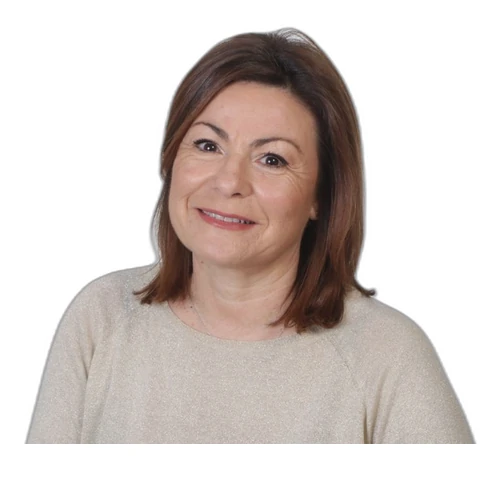
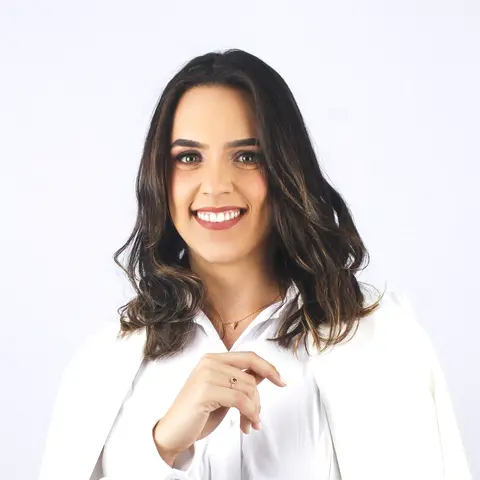
Fix mobile bubbles and consolidate offer flow

diff --git a/styles.css b/styles.css
@@ -599,24 +599,18 @@ h3 {
   text-align: center;
 }
 
-.hero-bubble::before,
 .hero-bubble::after {
   content: "";
   position: absolute;
-  left: -55px;
-  bottom: 27px;
-  width: 66px;
-  height: 40px;
+  z-index: 1;
+  left: -17px;
+  bottom: 34px;
+  width: 30px;
+  height: 30px;
   background: var(--white);
-  clip-path: polygon(100% 0, 100% 100%, 0 100%);
-}
-
-.hero-bubble::before {
-  left: -63px;
-  bottom: 22px;
-  width: 72px;
-  height: 50px;
-  background: var(--ink);
+  border-bottom: 4px solid var(--ink);
+  border-left: 4px solid var(--ink);
+  transform: rotate(45deg);
 }
 
 .claim-banner {
@@ -628,18 +622,25 @@ h3 {
   font-size: clamp(1.05rem, 2vw, 1.4rem);
   font-weight: 800;
   text-align: center;
+}
+
+.claim-underlined {
   text-decoration: underline;
   text-decoration-thickness: 2px;
   text-underline-offset: 4px;
 }
 
+.claim-ending {
+  white-space: nowrap;
+}
+
 .claim-tm {
   position: relative;
+  display: inline-block;
   top: -0.52em;
   margin-left: 0.22em;
   font-size: 0.38em;
   letter-spacing: 0.03em;
-  text-decoration: none;
 }
 
 .contact-marquee {
@@ -1017,8 +1018,10 @@ h3 {
 }
 
 .offer-section {
+  overflow: hidden;
   background:
     radial-gradient(circle at 15% 14%, rgba(255, 184, 0, 0.16), transparent 24%),
+    radial-gradient(circle at 82% 72%, rgba(109, 54, 142, 0.1), transparent 30%),
     linear-gradient(180deg, var(--paper-light), var(--paper));
 }
 
@@ -1027,7 +1030,7 @@ h3 {
   grid-template-columns: minmax(0, 1fr) auto minmax(0, 1fr);
   align-items: stretch;
   max-width: 960px;
-  margin: 0 auto 28px;
+  margin: 0 auto;
   border: 3px solid var(--ink);
   background: var(--paper-light);
   box-shadow: 8px 8px 0 rgba(104, 58, 0, 0.2);
@@ -1075,62 +1078,18 @@ h3 {
   font-weight: 800;
 }
 
-.offer-copy {
-  max-width: 960px;
-  margin: 0 auto;
-  padding: clamp(25px, 3.5vw, 42px);
+.process-heading {
+  margin-top: clamp(48px, 7vw, 76px);
+  margin-bottom: 30px;
 }
 
-.offer-copy > p {
-  max-width: 860px;
-  margin-inline: auto;
-  font-size: clamp(1.08rem, 2vw, 1.3rem);
-  text-align: center;
-}
-
-.offer-facts {
-  max-width: 810px;
-  margin: 28px auto 0;
-  padding: 0;
-  display: grid;
-  gap: 16px;
-  list-style: none;
-}
-
-.offer-facts li {
-  position: relative;
-  display: grid;
-  grid-template-columns: 30px minmax(0, 1fr);
-  gap: 13px;
-  padding-top: 16px;
-  border-top: 2px solid rgba(21, 17, 12, 0.22);
-}
-
-.offer-facts li::before {
-  content: "★";
-  color: var(--gold-dark);
-  font-size: 1.25rem;
-  line-height: 1.2;
-  text-align: center;
-}
-
-.offer-facts h3 {
-  margin-bottom: 10px;
-  font-size: 1rem;
-  font-weight: 800;
-  line-height: 1.2;
-  text-transform: uppercase;
-}
-
-.offer-facts p:last-child {
+.process-heading h3 {
   margin-bottom: 0;
-}
-
-.process-section {
-  overflow: hidden;
-  background:
-    radial-gradient(circle at 80% 20%, rgba(109, 54, 142, 0.11), transparent 30%),
-    var(--paper);
+  font-size: clamp(2rem, 4.8vw, 4rem);
+  font-weight: 800;
+  line-height: 1.01;
+  letter-spacing: -0.035em;
+  text-transform: uppercase;
 }
 
 .process-film {
@@ -1455,24 +1414,18 @@ h3 {
   line-height: 1.42;
 }
 
-.quote-bubble::before,
 .quote-bubble::after {
   content: "";
   position: absolute;
-  bottom: -26px;
+  z-index: 1;
+  bottom: -15px;
   left: 50%;
-  width: 28px;
-  height: 30px;
-  background: var(--ink);
-  clip-path: polygon(0 0, 100% 0, 72% 100%);
-  transform: translateX(-50%);
-}
-
-.quote-bubble::after {
-  bottom: -19px;
-  width: 21px;
-  height: 23px;
+  width: 27px;
+  height: 27px;
   background: var(--white);
+  border-right: 3px solid var(--ink);
+  border-bottom: 3px solid var(--ink);
+  transform: translateX(-50%) rotate(45deg);
 }
 
 .portrait-frame {
@@ -1760,11 +1713,15 @@ h3 {
 
   .masthead {
     font-size: clamp(3.35rem, 14.2vw, 6.4rem);
-    line-height: 0.82;
+    line-height: 0.9;
   }
 
   .masthead-face > span {
     display: block;
+  }
+
+  .masthead-face > span + span {
+    margin-top: 0.14em;
   }
 
   .hero {
@@ -1802,20 +1759,16 @@ h3 {
     margin-inline: 8px;
   }
 
-  .hero-bubble::before,
   .hero-bubble::after {
     left: 50%;
-    bottom: -42px;
-    width: 48px;
-    height: 48px;
-    clip-path: polygon(0 0, 100% 0, 50% 100%);
-    transform: translateX(-50%);
-  }
-
-  .hero-bubble::before {
-    bottom: -49px;
-    width: 57px;
-    height: 54px;
+    top: -18px;
+    bottom: auto;
+    width: 34px;
+    height: 34px;
+    border: 0;
+    border-top: 4px solid var(--ink);
+    border-left: 4px solid var(--ink);
+    transform: translateX(-50%) rotate(45deg);
   }
 
   .claim-banner {
@@ -1881,7 +1834,7 @@ h3 {
   }
 
   .masthead-stage {
-    min-height: 205px;
+    min-height: 225px;
     padding: 24px 0 10px;
   }
 
@@ -1948,6 +1901,7 @@ h3 {
   }
 
   .section-heading h2,
+  .process-heading h3,
   .outlined-panel h2,
   .finale h2 {
     font-size: clamp(1.85rem, 9vw, 3rem);
@@ -1975,10 +1929,6 @@ h3 {
     width: 43px;
     height: 43px;
     margin: -3px auto;
-  }
-
-  .offer-copy {
-    padding: 26px 18px;
   }
 
   .process-film {

diff --git a/index.html b/index.html
@@ -81,7 +81,7 @@
             </blockquote>
 
             <div class="claim-banner">
-              The Movie Master has all the best movie opinions.<sup class="claim-tm">TM</sup>
+              <span class="claim-underlined">The Movie Master has all the best movie </span><span class="claim-ending"><span class="claim-underlined">opinions.</span><sup class="claim-tm">TM</sup></span>
             </div>
 
             <section class="contact-marquee" id="contact" aria-labelledby="contact-title">
@@ -176,47 +176,9 @@
             </div>
           </div>
 
-          <div class="offer-copy outlined-panel reveal-on-scroll">
-            <p>
-              You can either let the Movie Master choose for you or you can tell
-              the Movie Master what kinds of movies you like and let him
-              recommend the best movies customized for your taste.
-            </p>
-            <ul class="offer-facts">
-              <li>
-                <div>
-                  <h3>What information should a customer give him?</h3>
-                  <p>
-                    Tell the Movie Master how many movie recommendations you're
-                    interested in buying, what kinds of movies you want him to
-                    give you (optional), and how you heard about him (also
-                    optional).
-                  </p>
-                </div>
-              </li>
-              <li>
-                <div>
-                  <h3>Expected turnaround</h3>
-                  <p>
-                    You will receive your list of Blockbuster Smash Hits in no
-                    more than 24 hours.
-                  </p>
-                </div>
-              </li>
-            </ul>
-          </div>
-        </div>
-      </section>
-
-      <div class="filmstrip-divider filmstrip-divider-flipped" aria-hidden="true">
-        <div class="filmstrip-stars">★★★★★</div>
-      </div>
-
-      <section class="section process-section" id="process">
-        <div class="page-shell">
-          <div class="section-heading reveal-on-scroll">
+          <div class="section-heading process-heading reveal-on-scroll" id="process">
             <p class="eyebrow" aria-hidden="true">★★★★★</p>
-            <h2>HOW IT WORKS</h2>
+            <h3>HOW IT WORKS</h3>
           </div>
           <ol class="process-film reveal-on-scroll">
             <li>

diff --git a/CREDITS.md b/CREDITS.md
@@ -13,7 +13,7 @@ illustrative portraits under the [Pexels license](https://www.pexels.com/license
 - Gabriel W.: [Professional man in a blue suit smiling](https://www.pexels.com/photo/professional-man-in-blue-suit-smiling-portrait-38677836/)
 - Josephina B.: [Professional portrait of a smiling woman in a studio](https://www.pexels.com/photo/professional-portrait-of-smiling-woman-in-studio-38197025/)
 - Torrin W.: [Professional headshot of a smiling businessman](https://www.pexels.com/photo/professional-headshot-of-smiling-businessman-30004315/)
-- Sabrina C.: [Professional portrait of a smiling middle-aged woman](https://www.pexels.com/photo/professional-portrait-of-smiling-middle-aged-woman-29405854/)
+- Sabrina C.: [Smiling woman standing in a studio](https://www.pexels.com/photo/smiling-woman-standing-in-studio-15306494/)
 - Wert P.: [Smiling young man in a suit](https://www.pexels.com/photo/smiling-young-man-in-suit-posing-on-white-studio-background-17311570/)
 - Polly P.: [Smiling businesswoman in a black suit](https://www.pexels.com/photo/smiling-elegant-woman-17050132/)
 - George W.: [Professional portrait of a smiling man in business attire](https://www.pexels.com/photo/professional-portrait-of-a-smiling-man-in-business-attire-29856511/)
